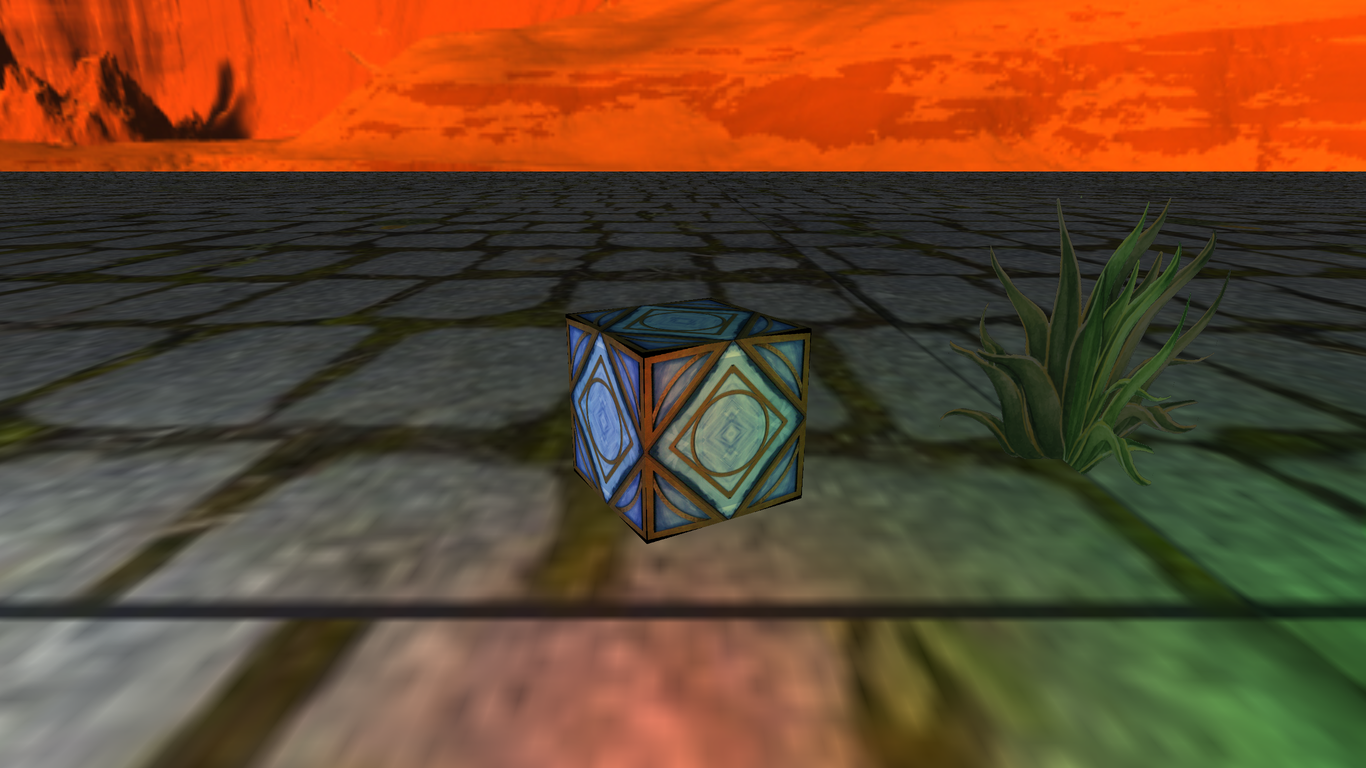
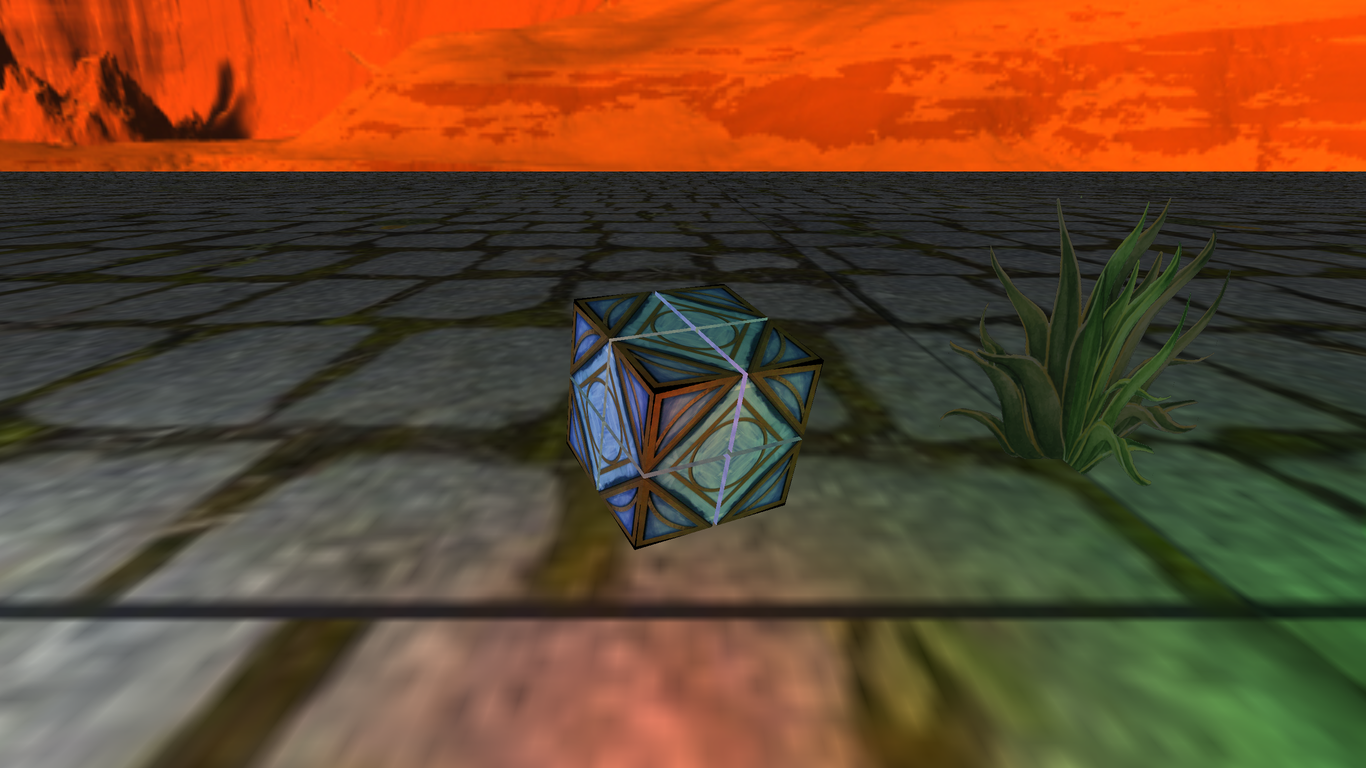
Ejercicio 8: proyecto renombrado y holocron Jedi con esquinas moviles, giro en dos ejes y textura en sus seis caras
Claude-Session: https://claude.ai/code/session_01WN2JLSSs9uYxjiXpMXK3Ue

Changed region(s): [[0.3997, 0.375, 0.6149, 0.7188]]

diff --git a/ejercicio8.cpp b/ejercicio8.cpp
@@ -1,14 +1,15 @@
 /*
-Práctica 8: Iluminación 2
+Ejercicio de Práctica 8: Iluminación 2
 Ricardo Emmanuel Galicia Tequianes - 118001740
 
 Se parte del código de la práctica 7 (rover, avión, dado y lámpara con sus luces). En la escena quedan un solo
-dado (el de la práctica 6, por código) y el holocrón Jedi importado, que reemplaza a los dos holocrones anteriores.
+dado (el de la práctica 6, por código) y el holocrón Jedi, que reemplaza a los dos holocrones anteriores.
 Se agregó:
 - C: la luz del avión que apunta hacia el suelo cambia de color en el orden
   rojo, amarillo, verde, cian, azul, magenta (y vuelve a rojo).
-- Holocrón Jedi optimizado (cubo de 24 vértices con una sola textura), gira y flota solo y se mueve con las flechas
-  izquierda / derecha; lleva unida una luz puntual azul claro que K enciende o apaga.
+- Holocrón Jedi armado con 8 esquinas y un núcleo, todos con la misma textura. Las esquinas se separan y giran
+  sobre su diagonal (se abre y se cierra), el holocrón gira en dos ejes para que se vean sus seis caras, flota,
+  y se mueve con las flechas izquierda / derecha. Lleva unida una luz puntual azul claro que K enciende o apaga.
 - Luz puntual verde en el punto extremo de la pinza del rover; se mueve con el rover y P la enciende o la apaga.
 
 Controles:
@@ -85,8 +86,9 @@ Model Cuerpo_M;
 Model Brazo_M;
 Model Pata_M[6];
 Model Llanta_M[6];
-//Holocrón Jedi importado (práctica 8) y avión de la práctica 6
-Model HolocronImportado_M;
+//Holocrón Jedi (práctica 8): una esquina que se dibuja ocho veces y el núcleo; avión de la práctica 6
+Model HolocronEsquina_M;
+Model HolocronNucleo_M;
 Model Avion_M;
 //Lámpara de calle
 Model Lampara_M;
@@ -148,7 +150,7 @@ const float INICIO_AVION_Z = -4.0f;
 float posAvionZ = INICIO_AVION_Z;		//H: avanza hacia +Z (donde está su hélice), J: retrocede
 bool linternaEncendida = true;
 
-//Práctica 8
+//Ejercicio de práctica 8
 //Colores de la luz inferior del avión, en el orden en que se recorren con C
 const glm::vec3 COLORES_LUZ_AVION[6] = {
 	glm::vec3(1.0f, 0.0f, 0.0f),	//rojo
@@ -162,13 +164,16 @@ const int COLOR_INICIAL_AVION = 1;	//amarillo, el color que tenía en la prácti
 int colorLuzAvion = COLOR_INICIAL_AVION;
 bool luzHolocronEncendida = true;
 bool luzPinzaEncendida = true;
-//Holocrón Jedi: cubo de lado 2 con centro en su origen. Las flechas izquierda / derecha lo mueven en X;
-//además gira sobre su eje Y y sube y baja un poco, como si flotara
+//Holocrón Jedi: cubo de lado 2 con centro en su origen, armado con 8 esquinas y un núcleo.
+//Las flechas izquierda / derecha lo mueven en X; además gira, flota y sus esquinas se abren y se cierran
 const glm::vec3 INICIO_HOLOCRON(-6.0f, 0.8f, -1.5f);
 const float VELOCIDAD_HOLOCRON = 0.08f;
 const float ALTURA_LUZ_HOLOCRON = 1.5f;	//la luz va arriba del centro, fuera del cubo
 float posHolocronX = INICIO_HOLOCRON.x;
 float anguloHolocron = 0.0f;			//grados, aumenta en cada cuadro
+float aperturaHolocron = 0.0f;			//0: cerrado, 1: esquinas en su punto más alejado
+const float SEPARACION_ESQUINAS = 0.4f;	//distancia que avanza cada esquina sobre su diagonal al abrirse
+const float GIRO_ESQUINAS = 20.0f;		//grados que gira cada esquina sobre su diagonal al abrirse
 glm::vec3 posHolocron = INICIO_HOLOCRON;
 //Punto extremo de la pinza en coordenadas del rover (sin escala). La pinza viene en Cuerpo.obj,
 //arriba del brazo; su vértice más alejado está en (2.38, 12.44, -0.94) y la luz se pone un poco afuera
@@ -362,7 +367,8 @@ void CrearDado() //dado de lado 2 centrado en el origen (24 vértices, 36 índic
 //la misma ventana (una línea por captura: archivo.ppm y opciones) y luego sigue normal.
 //Opciones: --camara x y z yaw pitch, --rover x, --avion y, --linterna 0|1,
 //          --puntual con lin exp (luz roja), --spot con lin exp (luz verde fija),
-//          --color 0..5 (luz del avión), --holocron 0|1, --pinza 0|1, --holocronx x, --holocronang grados
+//          --color 0..5 (luz del avión), --holocron 0|1, --pinza 0|1, --holocronx x, --holocronang grados,
+//          --apertura 0..1 (esquinas del holocrón)
 //------------------------------------------------------------------
 struct Captura
 {
@@ -381,6 +387,7 @@ void RestaurarEscena()
 	posAvionZ = INICIO_AVION_Z;
 	posHolocronX = INICIO_HOLOCRON.x;
 	anguloHolocron = 0.0f;
+	aperturaHolocron = 0.0f;
 	linternaEncendida = true;
 	pointLights[0] = luzRojaInicial;
 	spotLights[1] = luzVerdeInicial;
@@ -404,6 +411,7 @@ void AplicarOpciones(const std::vector<std::string>& op)
 		else if (op[i] == "--avionz" && i + 1 < op.size()) posAvionZ = num(++i);
 		else if (op[i] == "--holocronx" && i + 1 < op.size()) posHolocronX = num(++i);
 		else if (op[i] == "--holocronang" && i + 1 < op.size()) anguloHolocron = num(++i);
+		else if (op[i] == "--apertura" && i + 1 < op.size()) aperturaHolocron = num(++i);
 		else if (op[i] == "--linterna" && i + 1 < op.size()) linternaEncendida = num(++i) != 0.0f;
 		else if (op[i] == "--color" && i + 1 < op.size()) colorLuzAvion = (int)num(++i) % 6;
 		else if (op[i] == "--holocron" && i + 1 < op.size()) luzHolocronEncendida = num(++i) != 0.0f;
@@ -508,8 +516,9 @@ int main(int argc, char** argv)
 		Llanta_M[i].LoadModel(std::string("Models/Llanta_") + nombresPiezas[i] + ".obj");
 	}
 
-	//Holocrón Jedi: 24 vértices, 12 triángulos y una textura que se repite en las seis caras
-	HolocronImportado_M.LoadModel("Models/holocron_jedi.obj");
+	//Holocrón Jedi: esquina (octante del cubo) y núcleo, 24 vértices y 12 triángulos cada uno, misma textura
+	HolocronEsquina_M.LoadModel("Models/holocron_esquina.obj");
+	HolocronNucleo_M.LoadModel("Models/holocron_nucleo.obj");
 	Avion_M.LoadModel("Models/avion_verde.obj");
 
 	Lampara_M.LoadModel("Models/lampara.obj");
@@ -690,7 +699,9 @@ int main(int argc, char** argv)
 			if (keys[GLFW_KEY_RIGHT]) posHolocronX += VELOCIDAD_HOLOCRON * deltaTime;
 			posHolocronX = glm::clamp(posHolocronX, -14.0f, 10.0f);
 			//giro continuo sobre Y (en las capturas se deja fijo para que la vista no dependa del tiempo)
-			anguloHolocron = fmod(anguloHolocron + 0.5f * deltaTime, 360.0f);
+			anguloHolocron = fmod(anguloHolocron + 0.5f * deltaTime, 720.0f);
+			//las esquinas se abren y se cierran solas (un ciclo cada ~8 s)
+			aperturaHolocron = 0.5f - 0.5f * cosf(now * 0.8f);
 		}
 
 		// Clear the window
@@ -730,7 +741,8 @@ int main(int argc, char** argv)
 
 		//Holocrón: posición del cuadro (X por teclado, Y flotando) y su luz encima
 		posHolocron = glm::vec3(posHolocronX, INICIO_HOLOCRON.y + (capturando ? 0.0f : 0.25f * sinf(now * 1.5f)), INICIO_HOLOCRON.z);
-		pointLights[2].SetPos(posHolocron + glm::vec3(0.0f, ALTURA_LUZ_HOLOCRON, 0.0f));
+		//la luz sube un poco cuando el holocrón está abierto para no quedar dentro de las esquinas de arriba
+		pointLights[2].SetPos(posHolocron + glm::vec3(0.0f, ALTURA_LUZ_HOLOCRON + 0.6f * aperturaHolocron, 0.0f));
 
 		glm::mat4 baseAvion(1.0);
 		baseAvion = glm::translate(baseAvion, glm::vec3(13.0f, posAvionY, posAvionZ));
@@ -820,13 +832,29 @@ int main(int argc, char** argv)
 		Material_opaco.UseMaterial(uniformSpecularIntensity, uniformShininess);
 		Lampara_M.RenderModel(uniformColor);
 
-		//Holocrón Jedi: se traslada a su posición del cuadro y gira sobre su eje Y
-		model = glm::mat4(1.0);
-		model = glm::translate(model, posHolocron);
-		model = glm::rotate(model, anguloHolocron * toRadians, glm::vec3(0.0f, 1.0f, 0.0f));
-		glUniformMatrix4fv(uniformModel, 1, GL_FALSE, glm::value_ptr(model));
+		//Holocrón Jedi: se traslada a su posición del cuadro y gira sobre Y y, más despacio, sobre X,
+		//para que con el tiempo se vean sus seis caras
+		glm::mat4 baseHolocron(1.0);
+		baseHolocron = glm::translate(baseHolocron, posHolocron);
+		baseHolocron = glm::rotate(baseHolocron, anguloHolocron * toRadians, glm::vec3(0.0f, 1.0f, 0.0f));
+		baseHolocron = glm::rotate(baseHolocron, 0.5f * anguloHolocron * toRadians, glm::vec3(1.0f, 0.0f, 0.0f));
 		Material_opaco.UseMaterial(uniformSpecularIntensity, uniformShininess);
-		HolocronImportado_M.RenderModel(uniformColor);
+		//Núcleo: gira al revés que el holocrón; solo se ve cuando las esquinas se separan
+		model = glm::rotate(baseHolocron, -2.0f * anguloHolocron * toRadians, glm::vec3(0.0f, 1.0f, 0.0f));
+		glUniformMatrix4fv(uniformModel, 1, GL_FALSE, glm::value_ptr(model));
+		HolocronNucleo_M.RenderModel(uniformColor);
+		//Esquinas: la misma malla (octante +X +Y +Z) reflejada con escalas de -1 hacia los otros siete octantes.
+		//Cada una se aleja del centro sobre su diagonal y gira sobre ella según la apertura
+		for (int e = 0; e < 8; e++)
+		{
+			glm::vec3 signo((e & 1) ? -1.0f : 1.0f, (e & 2) ? -1.0f : 1.0f, (e & 4) ? -1.0f : 1.0f);
+			glm::vec3 diagonal = glm::normalize(signo);
+			model = glm::translate(baseHolocron, diagonal * SEPARACION_ESQUINAS * aperturaHolocron);
+			model = glm::rotate(model, GIRO_ESQUINAS * aperturaHolocron * toRadians, diagonal);
+			model = glm::scale(model, signo);
+			glUniformMatrix4fv(uniformModel, 1, GL_FALSE, glm::value_ptr(model));
+			HolocronEsquina_M.RenderModel(uniformColor);
+		}
 
 		//Dado por código
 		color = glm::vec3(1.0f, 1.0f, 1.0f);

diff --git a/LEEME.md b/LEEME.md
@@ -1,4 +1,4 @@
-# Práctica 8: Iluminación 2
+# Ejercicio de Práctica 8: Iluminación 2
 
 Parte del código de la práctica 7.
 
@@ -6,10 +6,10 @@ Ricardo Emmanuel Galicia Tequianes - 118001740
 
 ## Compilar (macOS, Homebrew: glfw, glew, glm, assimp)
 
-    cd Practica8
+    cd Ejercicio8
     cmake -S . -B build -DCMAKE_BUILD_TYPE=Release
     cmake --build build
-    cd build && ./practica8
+    cd build && ./ejercicio8
 
 ## Controles
 
@@ -17,7 +17,7 @@ Ricardo Emmanuel Galicia Tequianes - 118001740
 - Y / U: rover hacia adelante / hacia atrás (faro azul y giro de llantas)
 - Flecha arriba / abajo: el avión sube / baja con su luz inferior
 - H / J: el avión avanza / retrocede con su faro naranja
-- Flecha izquierda / derecha: mueve el holocrón Jedi (además gira y flota solo)
+- Flecha izquierda / derecha: mueve el holocrón Jedi (además gira en dos ejes, flota y sus esquinas se abren y se cierran solas)
 - C: siguiente color de la luz inferior del avión (rojo, amarillo, verde, cian, azul, magenta)
 - K: enciende o apaga la luz azul claro del holocrón
 - P: enciende o apaga la luz verde de la pinza del rover
@@ -26,14 +26,15 @@ Ricardo Emmanuel Galicia Tequianes - 118001740
 
 ## Capturas
 
-`./practica8 --capturas ../Evidencias/lista_capturas.txt` recorre la lista dentro de la misma
-ventana, guarda cada vista como .ppm en la carpeta build (opciones nuevas: --color 0..5, --holocron 0|1, --pinza 0|1) y después deja el programa abierto.
+`./ejercicio8 --capturas ../Evidencias/lista_capturas.txt` recorre la lista dentro de la misma
+ventana, guarda cada vista como .ppm en la carpeta build (opciones nuevas: --color 0..5, --holocron 0|1, --pinza 0|1, --holocronx x, --holocronang grados, --apertura 0..1) y después deja el programa abierto.
 
 ## Archivos
 
 - Models/Pata_*.obj y Models/Llanta_*.obj: patas y llantas del rover separadas en Blender
   (script Models/separar_llantas_rover.py; archivo editable en ../Blender/rover_llantas_separadas.blend).
-- Models/holocron_jedi.obj: holocrón optimizado (24 vértices, 12 triángulos, una textura: Textures/holocron_jedi.png,
-  hecha de una foto con ../_trabajo/textura_holocron.py).
+- Models/holocron_esquina.obj y Models/holocron_nucleo.obj: holocrón Jedi armado con 8 esquinas (la misma malla reflejada)
+  y un núcleo, 24 vértices cada malla y una sola textura (Textures/holocron_jedi.png, hecha de una foto con
+  ../_trabajo/textura_holocron.py).
 - Models/lampara.obj: light-curved de Kenney, City Kit (Roads), licencia CC0.
 - Evidencias: capturas usadas en los documentos.
